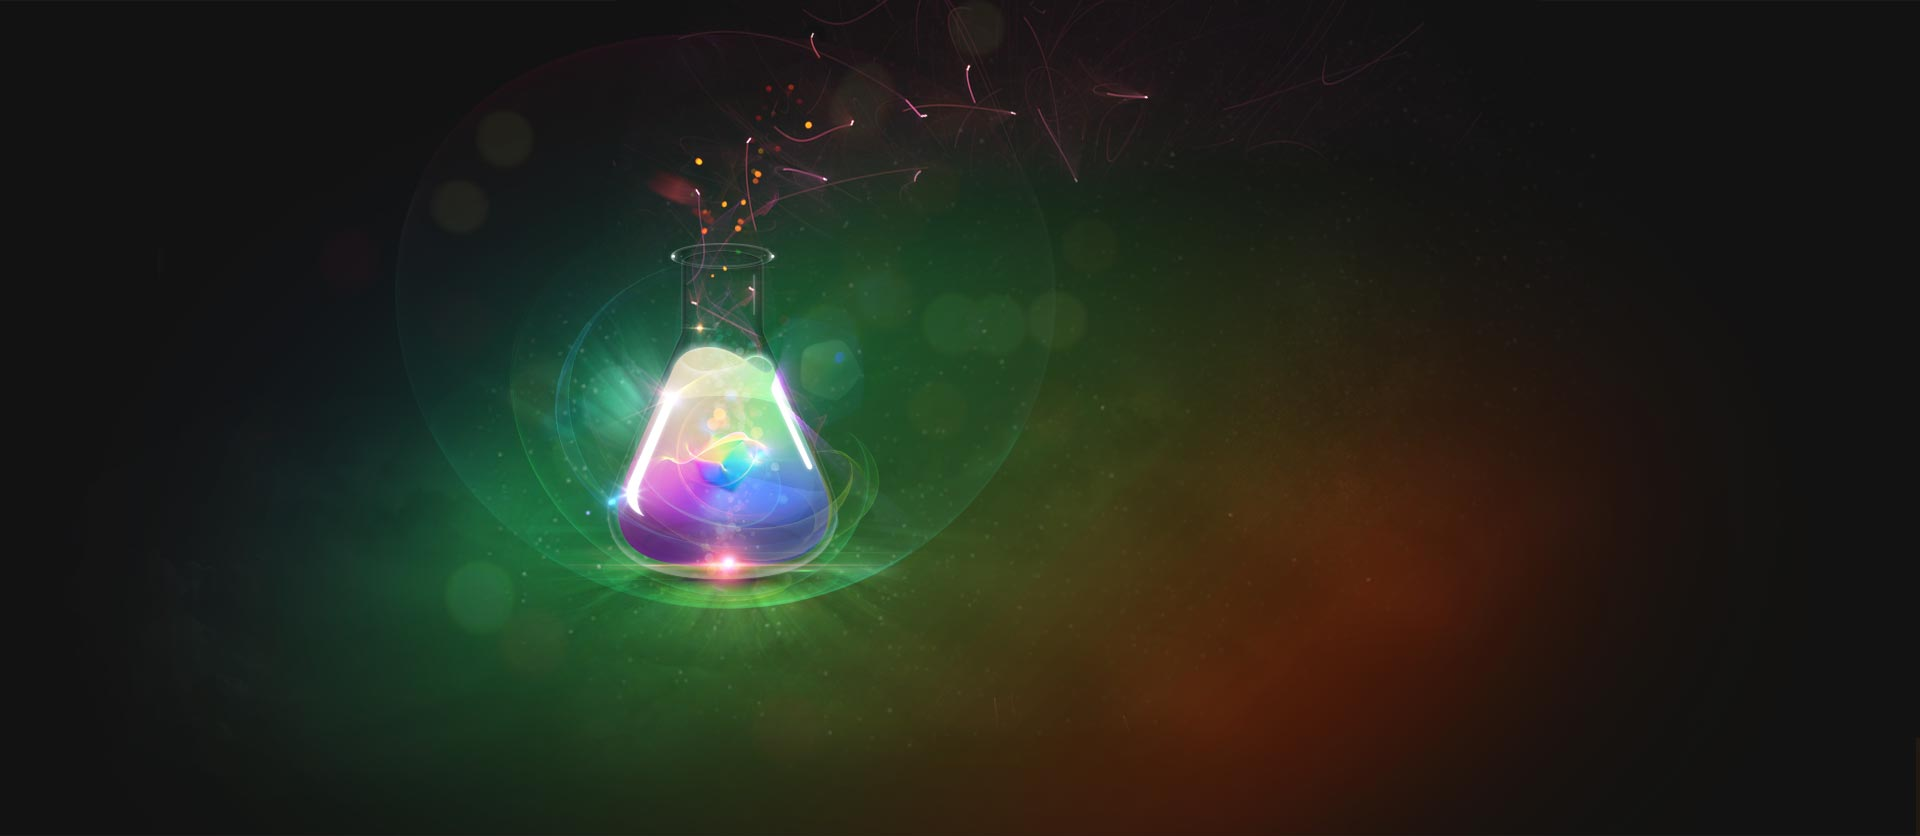
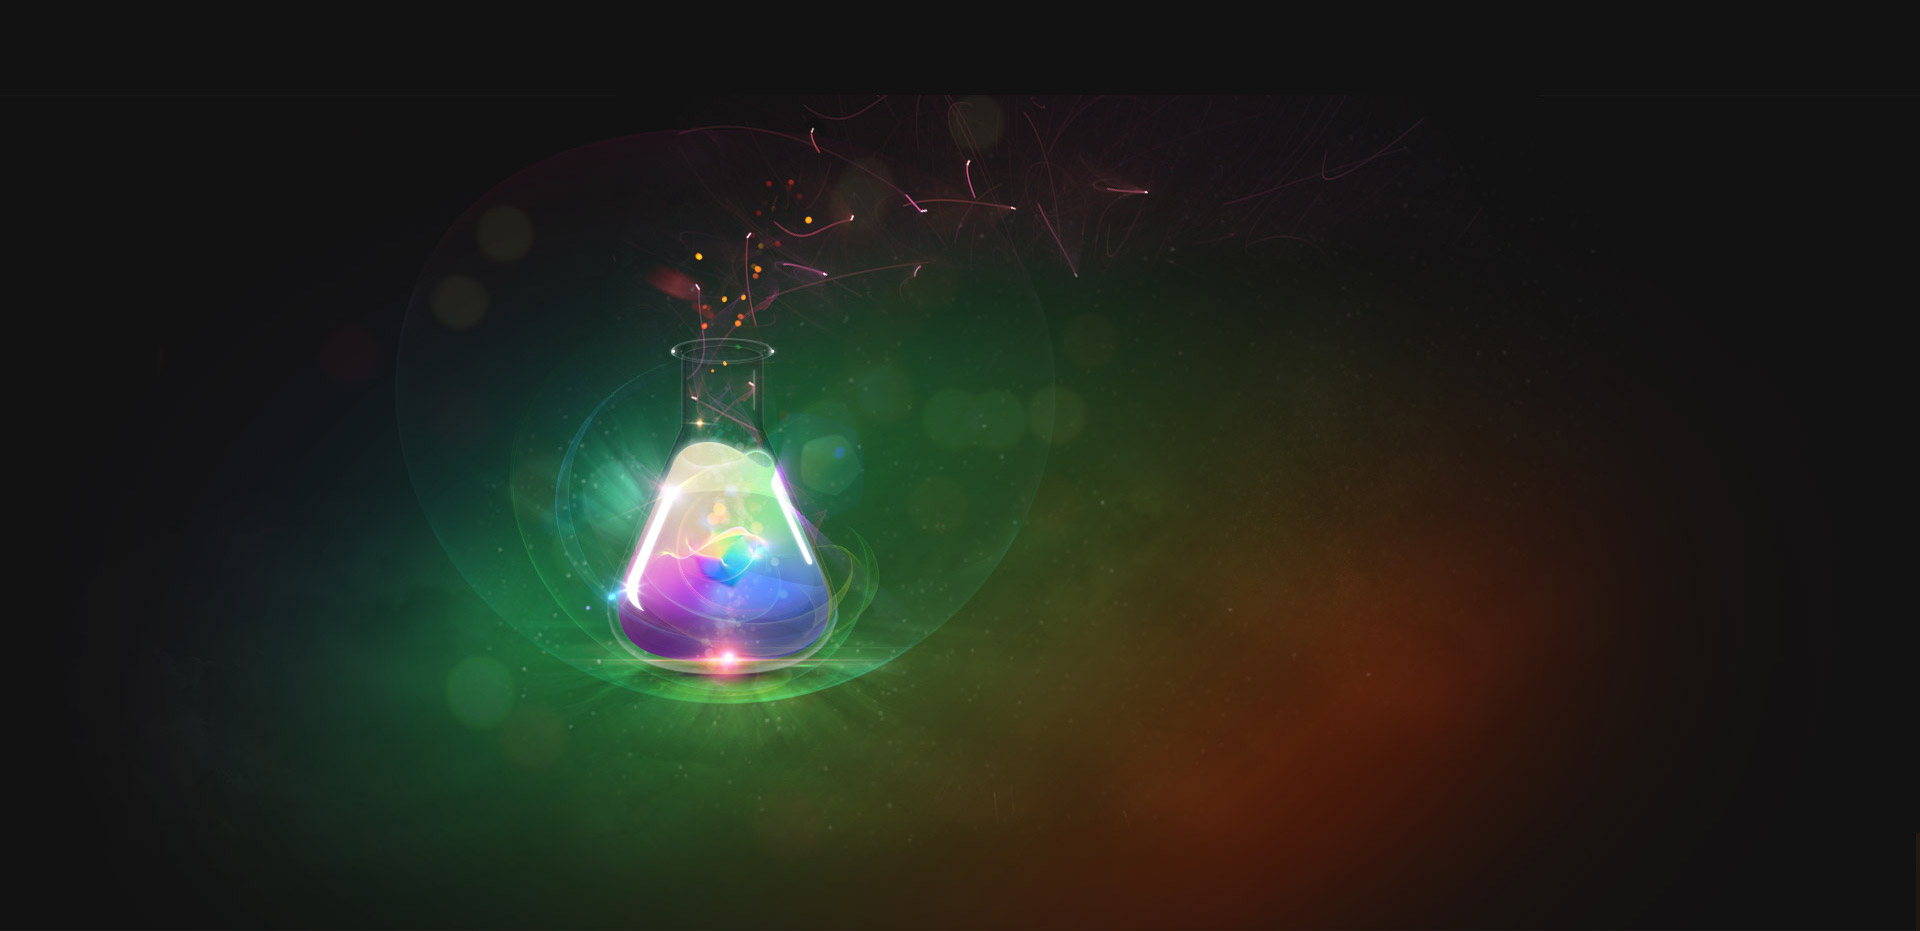
minor changes

diff --git a/index.html b/index.html
@@ -63,7 +63,7 @@
 					RepositionNav();
 				});	
 				
-				$('#first').parallax("50%", 95, 0.1, true);
+				$('#first').parallax("50%", 0, 0.1, true);
 				$('#second').parallax("50%", 2250, 0.4, true);
 				$('#third').parallax("50%", 3100, 0.4, true);
 				$('#forth').parallax("50%", 4000, 0.4, true);
@@ -177,7 +177,7 @@
 	<div id="second" class="slide">
 		<div class="story">
 			<div class="slide-header">		
-				<a href="#intro" class="top">TOP</a>			
+				<a href="#first" class="top">TOP</a>			
 				<div class="slide-number">01</div>
 				<div class="slide-details">
 					<h2 id="slide-heading">WEB DESIGN</h1>							
@@ -217,7 +217,7 @@
 	<div id="third" class="slide">
 		<div class="story">
 			<div class="slide-header">  	
-				<a href="#intro" class="top">TOP</a>	
+				<a href="#first" class="top">TOP</a>	
 				<div class="slide-number">02</div>
 				<div class="slide-details">					
 					<h2 id="slide-heading">ICONS & ILLUSTRATION</h2>					
@@ -250,7 +250,7 @@
 	<div id="forth" class="slide">
 		<div class="story">
 			<div class="slide-header">	
-				<a href="#intro" class="top">TOP</a>
+				<a href="#first" class="top">TOP</a>
 				<div class="slide-number">03</div>
 				<div class="slide-details">					
 					<h2>PHOTOGRAPHY</h2>					
@@ -312,7 +312,7 @@
 	<div id="fifth" class="slide">
 		<div class="story">
 			<div class="slide-header">		
-				<a href="#intro" class="top">TOP</a>				   		
+				<a href="#first" class="top">TOP</a>				   		
 				<div class="slide-number">04</div>
 				<div class="slide-details">
 					<h2>SKILLS</h2>
@@ -330,7 +330,7 @@
 	<div id="sixth" class="slide">
 		<div class="story">
 			<div class="slide-header">	
-			<a href="#intro" class="top">TOP</a>					   		
+			<a href="#first" class="top">TOP</a>					   		
 				<div class="slide-number">05</div>
 				<div class="slide-details">
 					<h2>CONTACT ME</h2>

diff --git a/css/style.css b/css/style.css
@@ -254,7 +254,7 @@ p{
 	background-color: #FFFFFF;
 	display: inline-block;
 	margin: 0;
-	padding: 70px 0;
+	padding: 50px 0;
 	width: 100%;
 }
 

diff --git a/adaptive-images.php b/adaptive-images.php
@@ -12,7 +12,7 @@
 
 /* CONFIG ----------------------------------------------------------------------------------------------------------- */
 
-$resolutions   = array(1920, 1024, 768, 480); // the resolution break-points to use (screen widths, in pixels)
+$resolutions   = array(1920, 1024, 768); // the resolution break-points to use (screen widths, in pixels)
 $cache_path    = "ai-cache"; // where to store the generated re-sized images. Specify from your document root!
 $jpg_quality   = 100; // the quality of any generated JPGs on a scale of 0 to 100
 $sharpen       = TRUE; // Shrinking images can blur details, perform a sharpen on re-scaled images?
